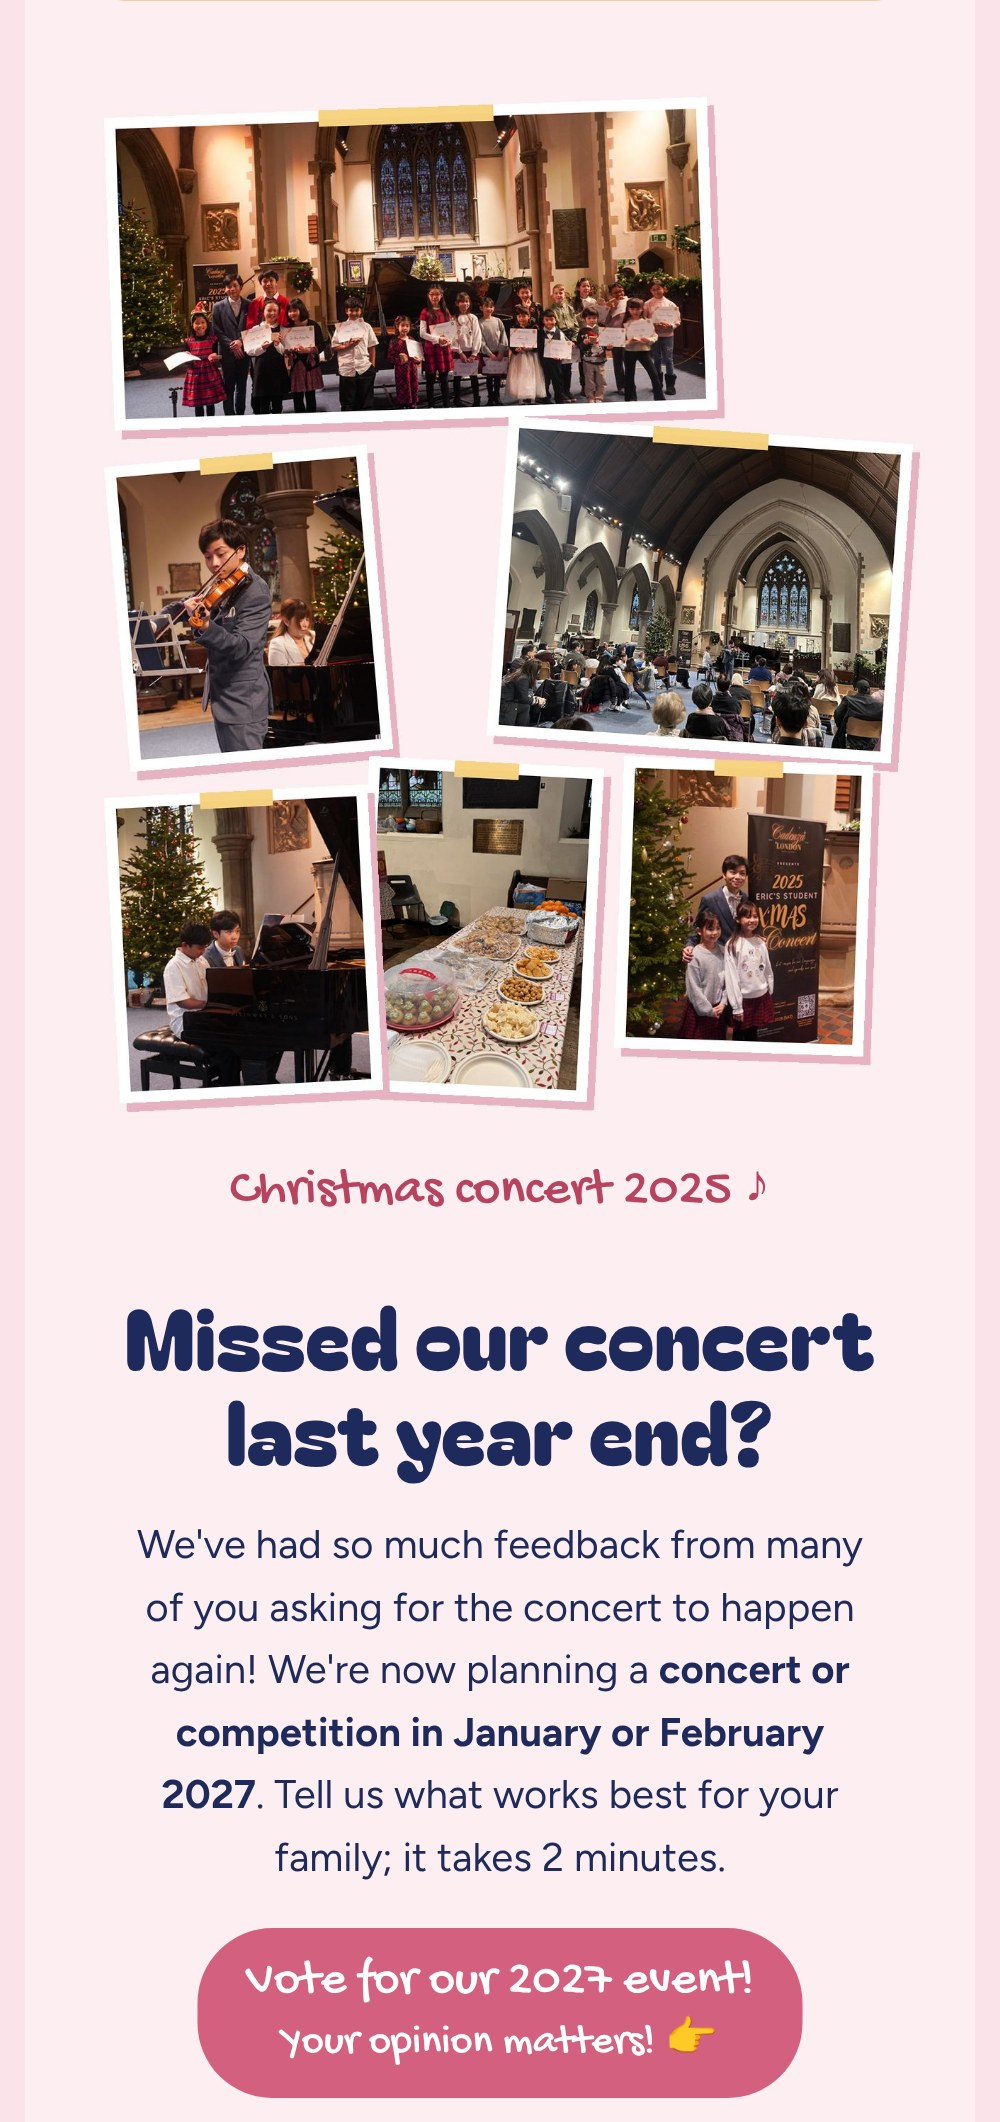
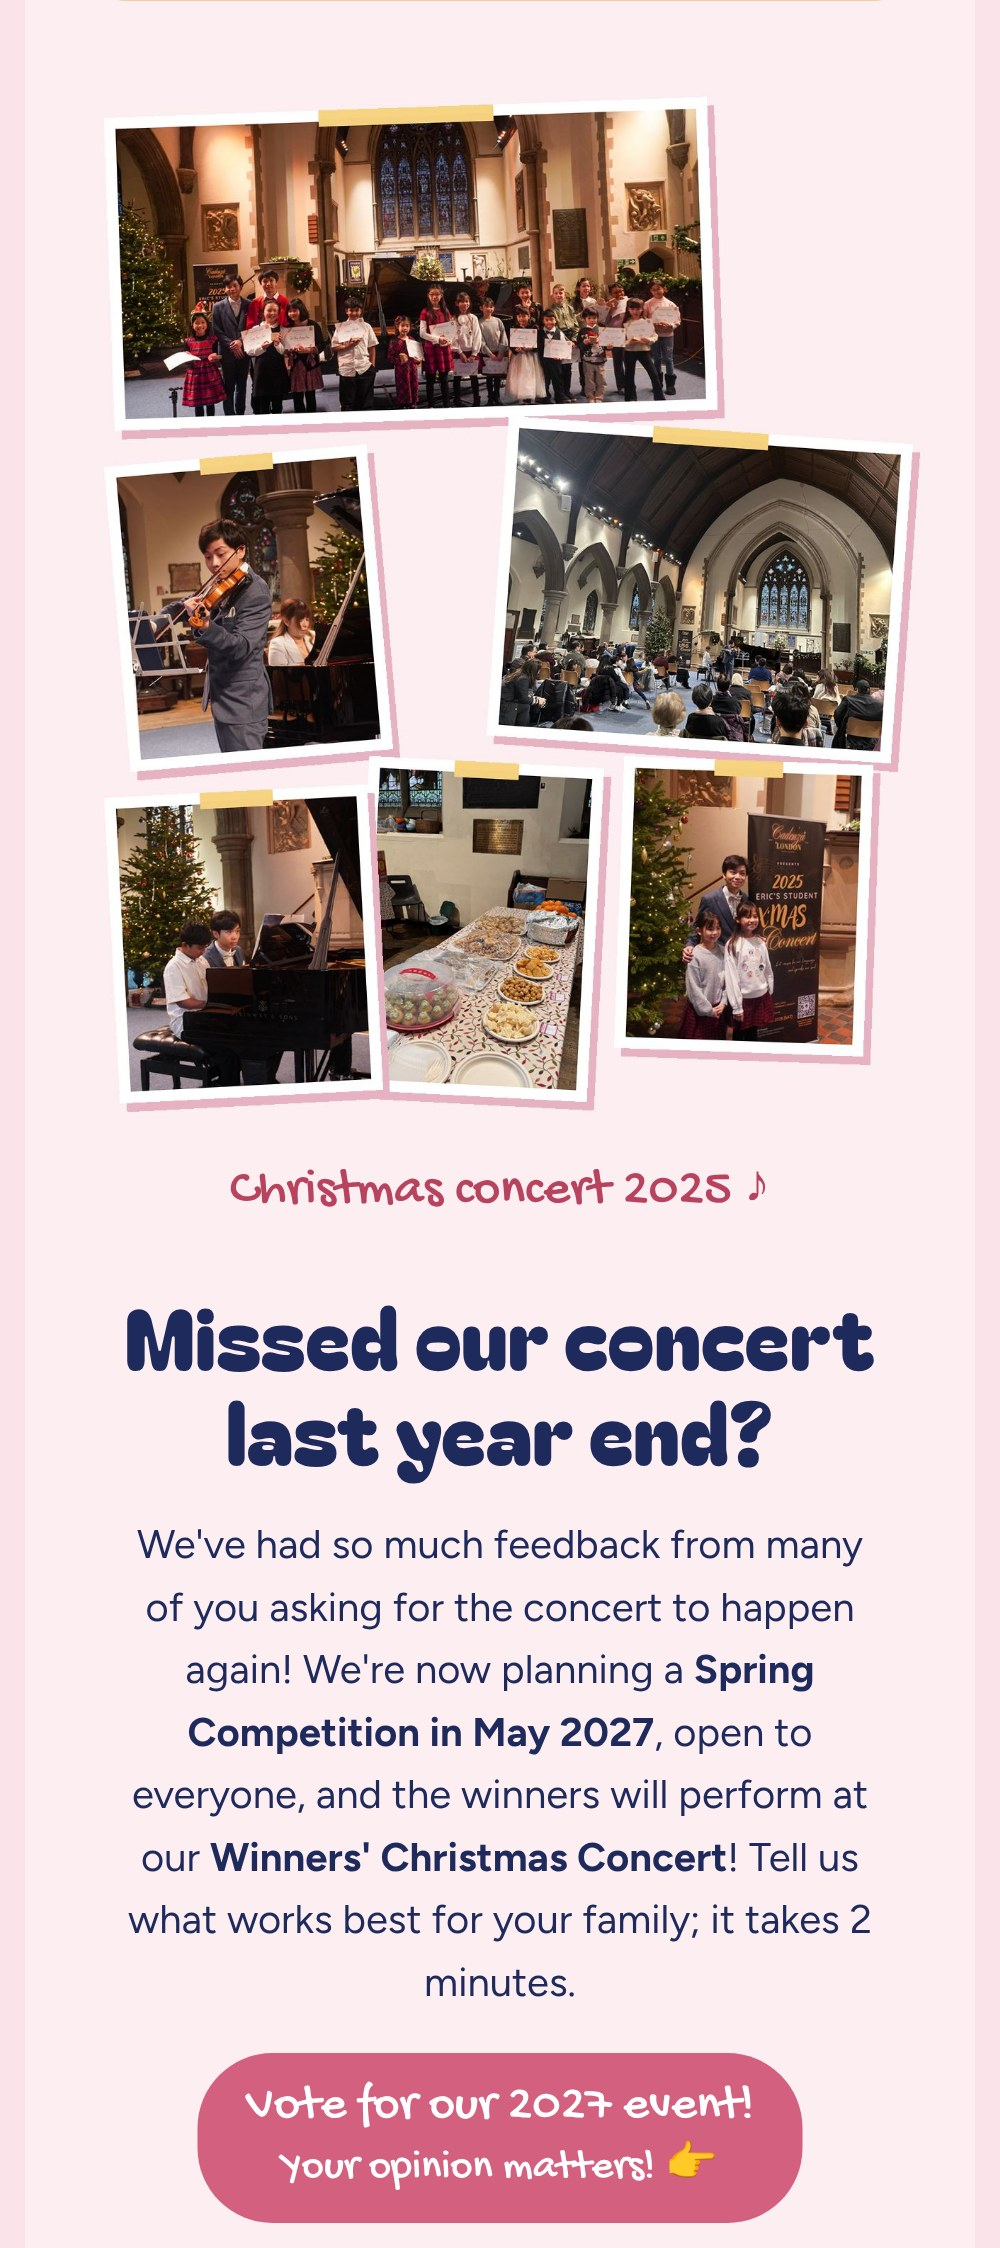
Newsletter Nov 2026: May Spring Competition and Winners' Christmas Concert
Claude-Session: https://claude.ai/code/session_015bt2nYSBxtEEo5rA4rXfs1

diff --git a/newsletter-nov2026/email/index.html b/newsletter-nov2026/email/index.html
@@ -26,22 +26,22 @@ Early access: our new Sight-Reading Club is FREE until 31 Dec, the Digital Exam 
 
 <table role="presentation" width="480" cellpadding="0" cellspacing="0" border="0" style="width:100%;max-width:480px;">
   <tr><td style="padding:0;line-height:0;font-size:0;">
-    <a href="https://cadenza-london.com/newsletter-nov2026/" target="_blank"><img src="https://cadenza-london.com/newsletter-nov2026/email/part1.jpg?v=13" width="480" alt="Cadenza London Music Academy. November 2026 Newsletter. Hello hello! Big news is here, and you hear it first. We've got so much going on at Cadenza: as our students and mailing list VIPs, you get early access to two brand-new workshops before anyone else!" style="display:block;width:100%;max-width:480px;height:auto;"></a>
+    <a href="https://cadenza-london.com/newsletter-nov2026/" target="_blank"><img src="https://cadenza-london.com/newsletter-nov2026/email/part1.jpg?v=14" width="480" alt="Cadenza London Music Academy. November 2026 Newsletter. Hello hello! Big news is here, and you hear it first. We've got so much going on at Cadenza: as our students and mailing list VIPs, you get early access to two brand-new workshops before anyone else!" style="display:block;width:100%;max-width:480px;height:auto;"></a>
   </td></tr>
   <tr><td style="padding:0;line-height:0;font-size:0;">
-    <a href="https://cadenza-london.com/sight-reading-club#book" target="_blank"><img src="https://cadenza-london.com/newsletter-nov2026/email/part2.jpg?v=13" width="480" alt="New launch: Sight-Reading Club starts Tuesday 3 November, free every session until 31 December. Weekly on Zoom, Tuesdays 6:00–6:45pm, 8 players max. Beginner Grades 1–3, Intermediate Grades 4–6. From January £8/£10 a session or monthly plans from £15; Cadenza students get 1 free session a month. Tap to book your free place." style="display:block;width:100%;max-width:480px;height:auto;"></a>
+    <a href="https://cadenza-london.com/sight-reading-club#book" target="_blank"><img src="https://cadenza-london.com/newsletter-nov2026/email/part2.jpg?v=14" width="480" alt="New launch: Sight-Reading Club starts Tuesday 3 November, free every session until 31 December. Weekly on Zoom, Tuesdays 6:00–6:45pm, 8 players max. Beginner Grades 1–3, Intermediate Grades 4–6. From January £8/£10 a session or monthly plans from £15; Cadenza students get 1 free session a month. Tap to book your free place." style="display:block;width:100%;max-width:480px;height:auto;"></a>
   </td></tr>
   <tr><td style="padding:0;line-height:0;font-size:0;">
-    <a href="https://cadenza-london.com/digital-exam-ready/" target="_blank"><img src="https://cadenza-london.com/newsletter-nov2026/email/part3.jpg?v=13" width="480" alt="Digital Exam Ready Course. Want to polish your exam pieces for a top result? Tired of recording your digital exam again and again at home? A 4-week crash course for ABRSM and Trinity digital exams, Grades 1 to 8, groups of 4 to 6. Starts 28 November or 5 January; early bird, first 3 save £20. Week 1 Score Detective, Week 2 Style and Character, Week 3 Mock Exam, Week 4 Recording Day on a grand piano with a professional videographer. Taught by Eric: 15+ years, 100% passing rate. From £295, Cadenza students save 10%. Tap to register interest for free." style="display:block;width:100%;max-width:480px;height:auto;"></a>
+    <a href="https://cadenza-london.com/digital-exam-ready/" target="_blank"><img src="https://cadenza-london.com/newsletter-nov2026/email/part3.jpg?v=14" width="480" alt="Digital Exam Ready Course. Want to polish your exam pieces for a top result? Tired of recording your digital exam again and again at home? A 4-week crash course for ABRSM and Trinity digital exams, Grades 1 to 8, groups of 4 to 6. Starts 28 November or 5 January; early bird, first 3 save £20. Week 1 Score Detective, Week 2 Style and Character, Week 3 Mock Exam, Week 4 Recording Day on a grand piano with a professional videographer. Taught by Eric: 15+ years, 100% passing rate. From £295, Cadenza students save 10%. Tap to register interest for free." style="display:block;width:100%;max-width:480px;height:auto;"></a>
   </td></tr>
   <tr><td style="padding:0;line-height:0;font-size:0;">
-    <a href="https://cadenza-questionnaire-2027.netlify.app" target="_blank"><img src="https://cadenza-london.com/newsletter-nov2026/email/part4.jpg?v=13" width="480" alt="Photos from our Christmas concert 2025. Missed our concert last year end? We're now planning a concert or competition in January or February 2027. Tap to vote for our 2027 event: your opinion matters!" style="display:block;width:100%;max-width:480px;height:auto;"></a>
+    <a href="https://cadenza-questionnaire-2027.netlify.app" target="_blank"><img src="https://cadenza-london.com/newsletter-nov2026/email/part4.jpg?v=14" width="480" alt="Photos from our Christmas concert 2025. Missed our concert last year end? We're now planning a Spring Competition in May 2027, open to everyone, with the winners performing at our Winners' Christmas Concert. Tap to vote for our 2027 event: your opinion matters!" style="display:block;width:100%;max-width:480px;height:auto;"></a>
   </td></tr>
   <tr><td style="padding:0;line-height:0;font-size:0;">
-    <a href="mailto:music@cadenza-london.com" target="_blank"><img src="https://cadenza-london.com/newsletter-nov2026/email/part5.jpg?v=13" width="480" alt="Looking for photos of your child at the concert? If you can't find them in the Google Drive folder, email music@cadenza-london.com and we'll send them over. Questions? Just reply to this email. Eric and Jessica x" style="display:block;width:100%;max-width:480px;height:auto;"></a>
+    <a href="mailto:music@cadenza-london.com" target="_blank"><img src="https://cadenza-london.com/newsletter-nov2026/email/part5.jpg?v=14" width="480" alt="Looking for photos of your child at the concert? If you can't find them in the Google Drive folder, email music@cadenza-london.com and we'll send them over. Questions? Just reply to this email. Eric and Jessica x" style="display:block;width:100%;max-width:480px;height:auto;"></a>
   </td></tr>
   <tr><td style="padding:0;line-height:0;font-size:0;">
-    <a href="https://cadenza-london.com" target="_blank"><img src="https://cadenza-london.com/newsletter-nov2026/email/part6.jpg?v=13" width="480" alt="Cadenza London Music Academy, Colindale, North London and online. cadenza-london.com, @cadenza.london, music@cadenza-london.com" style="display:block;width:100%;max-width:480px;height:auto;"></a>
+    <a href="https://cadenza-london.com" target="_blank"><img src="https://cadenza-london.com/newsletter-nov2026/email/part6.jpg?v=14" width="480" alt="Cadenza London Music Academy, Colindale, North London and online. cadenza-london.com, @cadenza.london, music@cadenza-london.com" style="display:block;width:100%;max-width:480px;height:auto;"></a>
   </td></tr>
   <tr><td align="center" style="padding:14px 16px 24px;font-family:Arial,Helvetica,sans-serif;font-size:12px;line-height:18px;color:#8a7f86;">
     Can't see the pictures? <a href="https://cadenza-london.com/newsletter-nov2026/" target="_blank" style="color:#8a7f86;text-decoration:underline;">View this newsletter online</a>.<br>

diff --git a/newsletter-nov2026/index.html b/newsletter-nov2026/index.html
@@ -284,7 +284,7 @@ Early access: our new Sight-Reading Club is FREE until 31 Dec, and the Digital E
         <tr>
           <td align="center" style="padding:22px 18px 0;">
             <div class="fat mid" style="font-family:'Bagel Fat One','Arial Rounded MT Bold','Arial Black',Arial,sans-serif;font-size:34px;line-height:38px;color:#1f2a5c;">Missed our concert last year end?</div>
-            <p class="body" style="font-family:'Figtree',Arial,sans-serif;font-size:16px;line-height:25px;color:#1f2a5c;margin:14px 0 0;">We've had so much feedback from many of you asking for the concert to happen again! We're now planning a <strong>concert or competition in January or February 2027</strong>. Tell us what works best for your family; it takes 2 minutes.</p>
+            <p class="body" style="font-family:'Figtree',Arial,sans-serif;font-size:16px;line-height:25px;color:#1f2a5c;margin:14px 0 0;">We've had so much feedback from many of you asking for the concert to happen again! We're now planning a <strong>Spring Competition in May 2027</strong>, open to everyone, and the winners will perform at our <strong>Winners' Christmas Concert</strong>! Tell us what works best for your family; it takes 2 minutes.</p>
             <table role="presentation" align="center" cellpadding="0" cellspacing="0" style="margin:16px auto 0;"><tr>
               <td align="center" style="background:#d4607f;border-radius:30px;padding:10px 20px;text-align:center;">
                 <a href="https://cadenza-questionnaire-2027.netlify.app" class="hand" style="font-family:'Gochi Hand','Comic Sans MS',cursive;font-size:20px;color:#ffffff;text-decoration:none;display:inline-block;line-height:24px;">Vote for our 2027 event!<br><span style="font-size:17px;">Your opinion matters! 👉</span></a>
